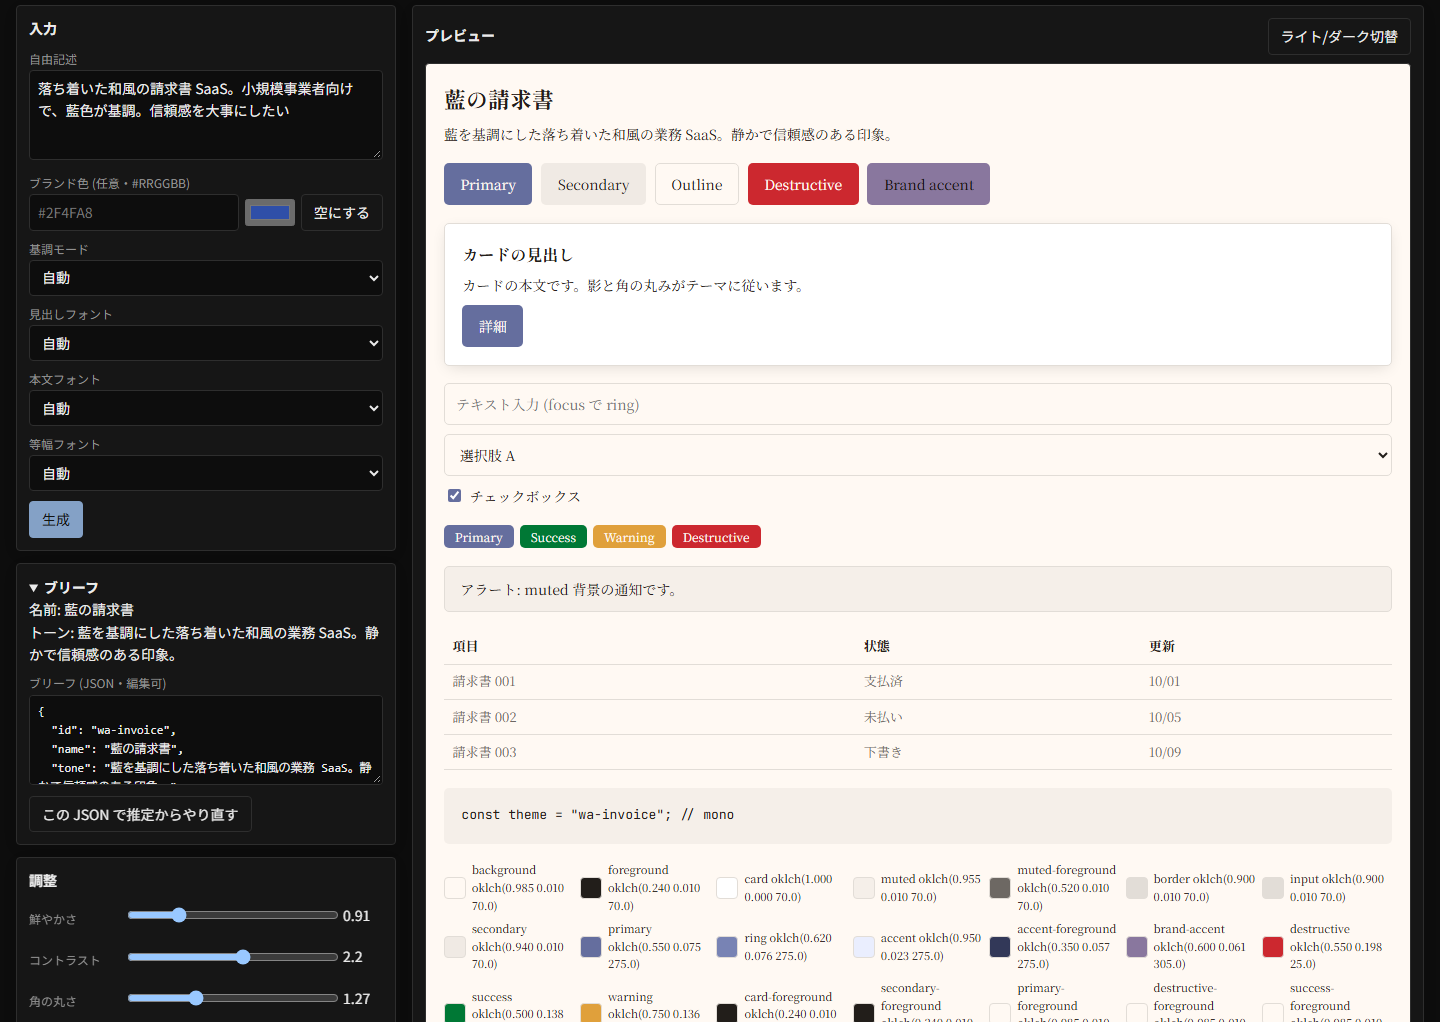
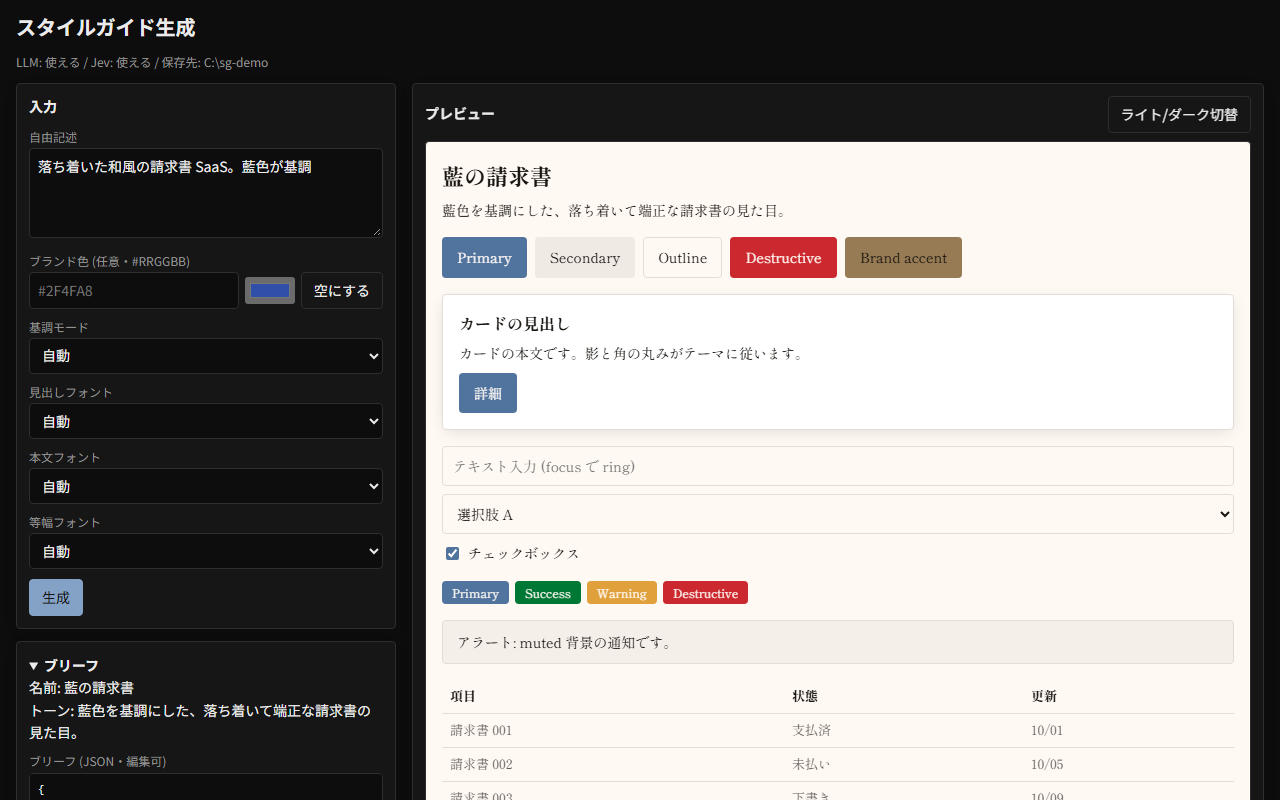
docs: README にアーキテクチャ図と画面のキャプチャを足す

Changed region(s): [[0.0, 0.0, 1.0, 1.0], [0.7812, 0.625, 0.8125, 0.6875]]

diff --git a/README.md b/README.md
@@ -8,13 +8,28 @@ Estimation can be done by Jev (TypeSafe) or by Claude itself; everything after t
 
 自由記述から UI テーマ (配色・角丸・余白・影・フォント) を推定し、Tailwind v4 の `theme.css`・`theme.json`・スタイルガイド文書を作る Claude Code スキルです。
 
-![作業台: ダーク基調のニュートラルなテーマ。このスキルの Web アプリ自体の見た目](docs/images/app-workbench.png)
+## アーキテクチャ
 
-ダーク基調でニュートラルなテーマ「作業台」を Web アプリで開いたところ。
+<picture>
+  <source media="(prefers-color-scheme: dark)" srcset="docs/architecture/architecture-dark.svg">
+  <img src="docs/architecture/architecture-light.svg" alt="style-guide のアーキテクチャ図。Claude Code か Web アプリから入った自由記述が、ローカルの pipeline と core で推定・シード化・テーマ生成され、themes/<id>/ に保存される。推定は Jev か claude CLI に任せられる">
+</picture>
 
-![藍の請求書: ライト基調で明朝体のテーマ](docs/images/app-wa-invoice.png)
+図のソースは `docs/architecture/architecture.d2` です。構成を変えたら直して、`python ~/.claude/skills/arch-diagram/versions/v1.1/scripts/render.py docs/architecture/architecture.d2` で描き直します (arch-diagram スキルを使います)。
 
-ライト基調で明朝体を使ったテーマ「藍の請求書」を Web アプリで開いたところ。
+## 画面
+
+![藍の請求書: ライト基調で明朝体のテーマを Web アプリで開いたところ](docs/images/app-wa-invoice.png)
+
+ライト基調で明朝体を使ったテーマ「藍の請求書」。右のプレビューに、ボタン・カード・フォーム・表がテーマの値で並びます。
+
+![作業台: ダーク基調のテーマ](docs/images/app-workbench.png)
+
+ダーク基調でニュートラルなテーマ「作業台」。同じ画面で、テーマごとに配色と書体が切り替わります。
+
+![調整パネルとコントラスト表](docs/images/app-adjust-contrast.png)
+
+左の調整パネル (スライダーと選択) と、プレビュー下のコントラスト表 (WCAG の PASS / FAIL)。
 
 ## 特長
 
